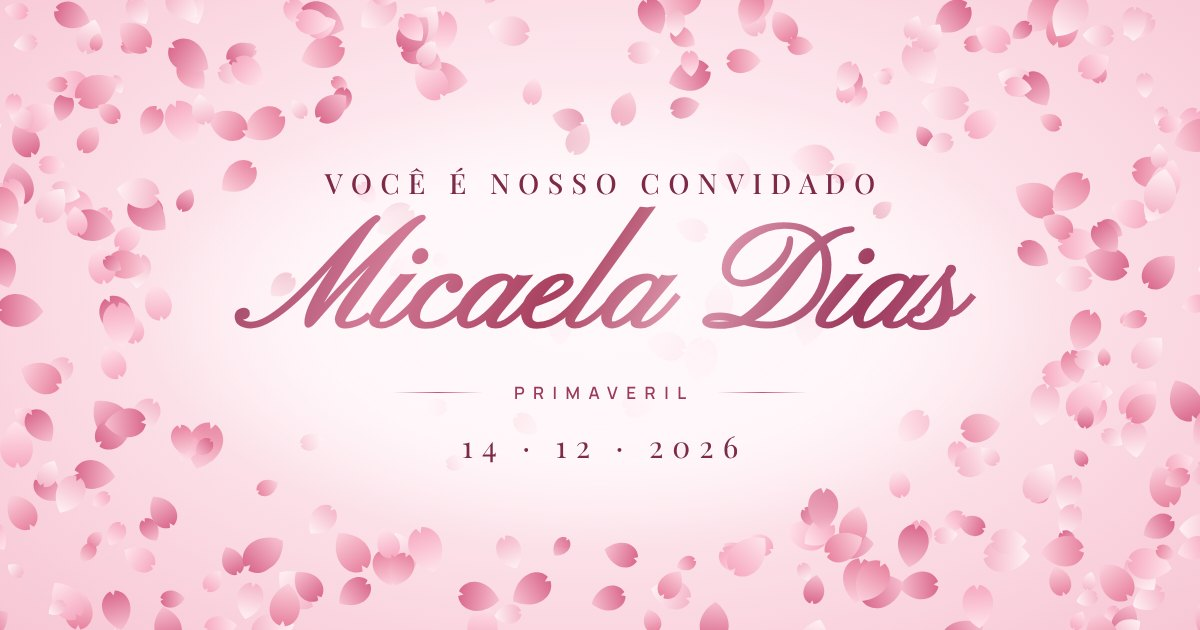
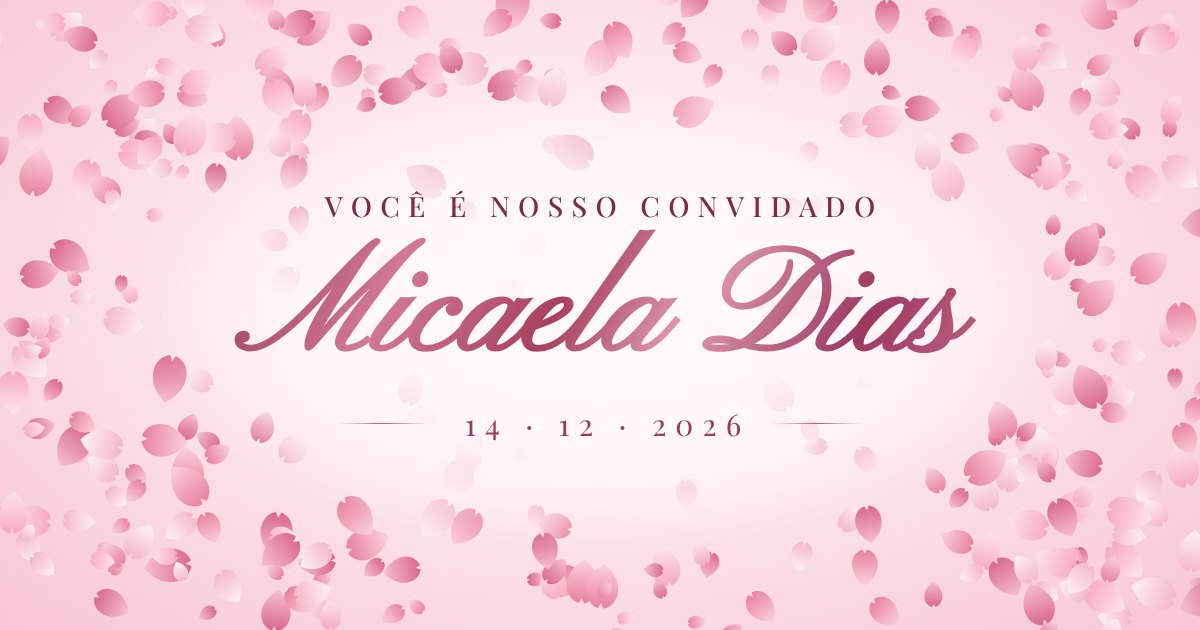
v3 rsvp

diff --git a/index.html b/index.html
@@ -3,14 +3,14 @@
 <head>
   <meta charset="UTF-8" />
   <meta name="viewport" content="width=device-width, initial-scale=1.0, viewport-fit=cover" />
-  <title>Micaela Dias • Primaveril • 14.12.2026</title>
+  <title>Micaela Dias • 14.12.2026</title>
   <meta name="description" content="Você está convidado(a) para a celebração da Micaela Dias — 14/12/2026, Coco Bambu Shopping Ponta Negra." />
   <!-- Prévia do WhatsApp: se o subdomínio for outro, troque o endereço abaixo -->
   <meta property="og:type" content="website" />
-  <meta property="og:url" content="https://micaela.convidaeu.com.br/" />
+  <meta property="og:url" content="https://primaveril.vercel.app/" />
   <meta property="og:title" content="Micaela Dias • Você está convidado(a)" />
-  <meta property="og:description" content="Primaveril • 14.12.2026 • Coco Bambu Ponta Negra — toque para abrir o convite 🌸" />
-  <meta property="og:image" content="https://micaela.convidaeu.com.br/og.jpg" />
+  <meta property="og:description" content="14.12.2026 • Coco Bambu Ponta Negra — toque para abrir o convite 🌸" />
+  <meta property="og:image" content="https://primaveril.vercel.app/og.jpg" />
   <meta property="og:image:width" content="1200" />
   <meta property="og:image:height" content="630" />
   <meta name="twitter:card" content="summary_large_image" />
@@ -225,6 +225,33 @@
       background:linear-gradient(105deg,transparent,rgba(255,255,255,.55),transparent);animation:reflexo 3.8s ease-in-out infinite}
     @keyframes reflexo{0%,55%{left:-60%}85%,100%{left:120%}}
     .btn-linha{color:var(--rosa-800);border:1px solid rgba(156,58,94,.45);background:rgba(255,255,255,.35)}
+    /* formulário de confirmação */
+    .sec.sem-fio::before{display:none}
+    .rsvp-form{max-width:340px;margin:26px auto 0;display:flex;flex-direction:column;gap:18px}
+    .rsvp-form[hidden],.obrigado[hidden],.qtd[hidden]{display:none}
+    .rsvp-form .guest{margin:0 auto}
+    .escolha{display:grid;grid-template-columns:1fr 1fr;gap:10px}
+    .opc{padding:15px 8px;border-radius:16px;border:1px solid rgba(156,58,94,.35);background:rgba(255,255,255,.45);color:var(--rosa-800);
+      font:600 13px var(--sans);cursor:pointer;transition:background .2s,color .2s,box-shadow .2s}
+    .opc[aria-checked="true"]{background:linear-gradient(135deg,#d97a9a,#9c3a5e);color:#fff;border-color:transparent;box-shadow:0 8px 20px rgba(156,58,94,.3)}
+    .qtd p{font-size:13.5px;color:var(--suave)}
+    .stepper{display:flex;align-items:center;justify-content:center;gap:20px;margin-top:10px}
+    .stepper button{width:46px;height:46px;border-radius:50%;border:1px solid rgba(156,58,94,.4);background:rgba(255,255,255,.6);font:400 24px var(--sans);color:var(--rosa-800);cursor:pointer}
+    .stepper output{min-width:44px;font-family:var(--serif);font-variant-numeric:lining-nums;font-size:2.3rem;color:var(--rosa-800)}
+    .recado{width:100%;padding:14px 16px;border-radius:16px;border:1px solid rgba(156,58,94,.3);background:rgba(255,255,255,.55);
+      font:400 16px var(--sans);color:var(--rosa-900);resize:vertical;outline:none}
+    .recado::placeholder{color:rgba(92,42,60,.5);font-size:14px}
+    .recado:focus{border-color:var(--rosa-700)}
+    .erro-msg{font-size:13px;color:#b3263f}
+    .erro-msg:empty{display:none}
+    .rsvp-form .btn{margin:2px auto 0}
+    .btn[disabled]{opacity:.6;pointer-events:none}
+    .obrigado{margin:26px auto 0;max-width:340px;padding:30px 22px;border-radius:24px;background:rgba(255,255,255,.62);border:1px solid #fff;box-shadow:0 14px 34px rgba(156,58,94,.14)}
+    .ok-icone{font-size:2.3rem;line-height:1}
+    .obrigado h4{font-family:var(--serif);font-style:italic;font-weight:400;font-size:1.8rem;color:var(--rosa-800);margin-top:10px}
+    .obrigado p{font-size:14px;color:var(--suave);line-height:1.6;margin-top:8px}
+    .obrigado .btn{margin:20px auto 0}
+    .link-mudar{display:block;margin:16px auto 0;background:none;border:0;color:var(--rosa-700);font:500 13px var(--sans);text-decoration:underline;cursor:pointer}
     .agenda{display:inline-flex;align-items:center;gap:8px;margin-top:22px;color:var(--rosa-800);font-size:13px;text-decoration:none;
       border-bottom:1px solid var(--fio);padding-bottom:3px}
     .agenda svg{width:15px;height:15px}
@@ -289,7 +316,6 @@
       </svg>
 
       <h1 class="nome holo" id="f-nome">Micaela Dias</h1>
-      <div class="sob"><span class="fio"></span><b id="f-tema">Primaveril</b><span class="fio"></span></div>
       <p class="hero-data" id="f-hero-data"></p>
 
       <div class="role" aria-hidden="true"><span class="wide" style="font-size:8px">role</span><i></i></div>
@@ -321,8 +347,6 @@
     <section class="sec traje" id="sec-traje">
       <span class="wide rv">Traje</span>
       <h3 class="titulo holo rv d1" id="f-traje"></h3>
-      <p class="dica-cor rv d2" id="f-cores"></p>
-      <div class="bolinhas rv d2" aria-hidden="true"><i style="background:#fde3ea"></i><i style="background:#f6b3c7"></i><i style="background:#e27f9f"></i><i style="background:#b84d70"></i></div>
     </section>
 
     <section class="sec local">
@@ -359,17 +383,34 @@
       <span class="wide rv">Confirmação</span>
       <h3 class="titulo holo rv d1">Você vem?</h3>
       <p class="sub rv d2" id="f-prazo"></p>
-      <input class="guest rv d2" id="guest" type="text" autocomplete="name" placeholder="Seu nome (e de quem vem com você)" aria-label="Seu nome">
-      <div class="acoes rv d3">
-        <a class="btn btn-rosa" id="btnSim" href="#" target="_blank" rel="noopener">
-          <svg viewBox="0 0 24 24" fill="none" stroke="currentColor" stroke-width="1.8" stroke-linecap="round" stroke-linejoin="round"><path d="M3.5 20.5l1.3-3.9A8.5 8.5 0 1 1 8.2 19.5z"/><path d="M9.2 8.2c.2-.4.5-.5.8-.5h.5l1 2.2-.8.9c.6 1.2 1.5 2.1 2.6 2.7l.9-.8 2.2 1v.5c0 .4-.2.7-.6.9-.6.3-1.4.4-2.2.1-2.3-.9-4-2.7-4.8-5-.2-.7-.1-1.4.4-2z" fill="currentColor" stroke="none"/></svg>
-          Vou comparecer
-        </a>
-        <a class="btn btn-linha" id="btnNao" href="#" target="_blank" rel="noopener">Não poderei ir</a>
+      <form class="rsvp-form rv d2" id="formRsvp" novalidate>
+        <input class="guest" id="guest" type="text" autocomplete="name" maxlength="120" placeholder="Seu nome completo" aria-label="Seu nome completo">
+        <div class="escolha" role="radiogroup" aria-label="Você vai?">
+          <button type="button" class="opc" data-vai="sim" role="radio" aria-checked="false">Vou comparecer 🌸</button>
+          <button type="button" class="opc" data-vai="nao" role="radio" aria-checked="false">Não poderei ir</button>
+        </div>
+        <div class="qtd" id="blocoQtd" hidden>
+          <p>Quantas pessoas no total, contando com você?</p>
+          <div class="stepper">
+            <button type="button" id="menos" aria-label="Menos uma pessoa">−</button>
+            <output id="qtd" aria-live="polite">1</output>
+            <button type="button" id="mais" aria-label="Mais uma pessoa">+</button>
+          </div>
+        </div>
+        <textarea class="recado" id="recado" maxlength="500" rows="3" aria-label="Recado (opcional)"></textarea>
+        <p class="erro-msg" id="erroRsvp" role="alert"></p>
+        <button class="btn btn-rosa" id="btnEnviar" type="submit">Enviar confirmação</button>
+      </form>
+      <div class="obrigado" id="obrigado" hidden>
+        <p class="ok-icone">🌸</p>
+        <h4 id="okTitulo"></h4>
+        <p id="okTexto"></p>
+        <a class="btn btn-linha" id="btnAvisarWhats" target="_blank" rel="noopener" hidden>Avisar também no WhatsApp</a>
+        <button type="button" class="link-mudar" id="btnMudar">Mudar minha resposta</button>
       </div>
     </section>
 
-    <section class="sec" style="padding-top:20px">
+    <section class="sec sem-fio" style="padding-top:20px">
       <a class="agenda rv" id="btnAgenda" href="#" target="_blank" rel="noopener">
         <svg viewBox="0 0 24 24" fill="none" stroke="currentColor" stroke-width="1.6" stroke-linecap="round" stroke-linejoin="round"><rect x="3" y="5" width="18" height="16" rx="3"/><path d="M16 3v4M8 3v4M3 10h18"/></svg>
         <span id="agendaTxt">Salvar na agenda</span>
@@ -393,7 +434,6 @@
     const CONFIG = {
       nome: 'Micaela Dias',
       ocasiao: 'Você é nosso convidado', // texto do topo. ex.: '15 Anos' | 'Meu aniversário'
-      tema: 'Primaveril',
       data: '2026-12-14',      // AAAA-MM-DD
       horario: '20:30',
       fuso: '-04:00',          // Manaus = -04:00 (Brasília seria -03:00)
@@ -402,15 +442,16 @@
       endereco: 'Av. Coronel Teixeira, 5705 — Ponta Negra',
       cidade: 'Manaus - AM',
       traje: 'Esporte fino',
-      cores: 'Tema primaveril em tons de rosa 🌸',
-      lojasTitulo: 'Amazonas Shopping',  // aparece ao lado de cada loja
+      lojasTitulo: 'Shopping Manauara',  // aparece ao lado de cada loja
       lojas: ['Life by Vivara', 'Top Internacional', 'MAC'],
-      pix: '047.045.723-85',   // aparece assim; o botão copia só os números
+      pix: '047.045.722-85',   // aparece assim; o botão copia só os números
       pixBanco: 'Banco do Brasil',
       pixNome: '',             // nome do titular da chave (opcional, ajuda o convidado a conferir)
-      whatsapp: '',            // só números, com 55 + DDD. ex.: '5592999999999' — vazio esconde a confirmação
+      planilha: 'https://script.google.com/macros/s/AKfycby4KKIoz2Nnd1o_4D1EmisYjlvqSgXWFf3HSgEk_uofbfcxLTazQmPHLxhJ_4FpjQb6/exec',            // link do Apps Script (termina em /exec) — as confirmações caem na planilha
+      whatsapp: '559281021617',            // opcional: 55 + DDD + número. Com planilha: vira botão "Avisar também no WhatsApp". Sem planilha: a confirmação vai pelo WhatsApp
+      maxPessoas: 10,          // máximo de pessoas por confirmação
       confirmarAte: '',        // opcional, ex.: '2026-12-05' → "Confirme até 05/12"
-      texto: 'Na estação das flores, quero celebrar mais um capítulo da minha história ao lado de quem faz a minha vida florescer. Será uma alegria ter você comigo nessa noite especial.',
+      texto: 'Quero convidar você para viver essa noite especial comigo.',
       fonteNome: 'pinyon',     // letra do nome: 'pinyon' (caligrafia) | 'greatvibes' (cursiva) | 'playfair' (itálico)
       musica: false,           // true = com música ao abrir | false = sem som nenhum
       volume: 0.5,             // 0 a 1
@@ -441,11 +482,10 @@
     $('f-nome').textContent = CONFIG.nome;
     $('f-assin').textContent = CONFIG.nome;
     $('f-ocasiao').textContent = CONFIG.ocasiao;
-    $('f-tema').textContent = CONFIG.tema;
     $('f-hero-data').textContent = `${dia} · ${mes} · ${ano}`;
     $('f-data-grande').innerHTML = `${dia}<span class="pt">.</span>${mes}`;
     $('f-semana').textContent = `${semana[new Date(`${CONFIG.data}T12:00:00${CONFIG.fuso}`).getUTCDay()]} · ${ano}`;
-    $('f-assin2').textContent = `${CONFIG.tema} · ${dia}.${mes}.${ano}`;
+    $('f-assin2').textContent = `${dia}.${mes}.${ano}`;
     if (CONFIG.texto) $('f-texto').textContent = CONFIG.texto; else $('f-texto').closest('section').remove();
 
     if (CONFIG.horario) {
@@ -454,7 +494,7 @@
       if (CONFIG.fuso !== '-04:00') $('bloco-hora').querySelector('span').innerHTML = 'início da<br>festa';
     } else $('bloco-hora').remove();
 
-    if (CONFIG.traje) { $('f-traje').textContent = CONFIG.traje; $('f-cores').textContent = CONFIG.cores; if (!CONFIG.cores) $('f-cores').remove(); }
+    if (CONFIG.traje) $('f-traje').textContent = CONFIG.traje;
     else $('sec-traje').remove();
 
     $('f-local').textContent = CONFIG.local;
@@ -494,40 +534,95 @@
     } else $('bloco-pix').remove();
     if (!CONFIG.lojas.length && !CONFIG.pix) $('sec-presentes').remove();
 
-    /* ---------- Confirmação pelo WhatsApp (vai e não vai) ---------- */
-    if (CONFIG.whatsapp) {
+    /* ---------- Confirmação de presença (formulário → planilha do Google) ---------- */
+    if (!CONFIG.planilha && !CONFIG.whatsapp) $('sec-rsvp').remove();
+    else (function () {
+      const CHAVE = 'convite-' + primeiroNome.toLowerCase().normalize('NFD').replace(/[^a-z0-9]/g, '') + '-' + CONFIG.data + '-rsvp';
+      const ler = () => { try { return JSON.parse(localStorage.getItem(CHAVE) || 'null'); } catch (e) { return null; } };
+      const gravar = (d) => { try { localStorage.setItem(CHAVE, JSON.stringify(d)); } catch (e) {} };
+      const salvo = ler();
+      const idConvidado = (salvo && salvo.id) || (Date.now().toString(36) + Math.random().toString(36).slice(2, 8));
+      const guest = $('guest'), erro = $('erroRsvp');
+      let vai = null, qtd = 1;
+
       if (CONFIG.confirmarAte) {
         const [, pm, pd] = CONFIG.confirmarAte.split('-');
-        $('f-prazo').textContent = `Por favor, confirme até ${pd}/${pm}. Escreva seu nome e escolha uma opção.`;
-      } else $('f-prazo').textContent = 'Escreva seu nome e escolha uma opção 🌸';
-      const guest = $('guest');
-      const linkWhats = (vai) => {
-        const quem = guest.value.trim();
-        const msg = vai
-          ? `Olá! ${quem ? `Aqui é ${quem}. ` : ''}Confirmo minha presença na celebração da ${primeiroNome} 🌸`
-          : `Olá! ${quem ? `Aqui é ${quem}. ` : ''}Infelizmente não poderei comparecer na celebração da ${primeiroNome}. Desejo uma noite linda! 🌸`;
-        return `https://api.whatsapp.com/send?phone=${CONFIG.whatsapp}&text=${encodeURIComponent(msg)}`;
-      };
-      ['btnSim', 'btnNao'].forEach((id) => {
-        const btn = $(id), vai = id === 'btnSim';
-        const atualizar = () => { btn.href = linkWhats(vai); };
-        atualizar(); guest.addEventListener('input', atualizar);
-        btn.addEventListener('click', (e) => {
-          if (!guest.value.trim()) {
-            e.preventDefault();
-            guest.classList.remove('erro'); void guest.offsetWidth; guest.classList.add('erro');
-            guest.placeholder = 'Escreva seu nome primeiro 😊'; guest.focus();
-          } else if (navigator.vibrate) navigator.vibrate(15);
-        });
+        $('f-prazo').textContent = `Por favor, confirme até ${pd}/${pm}.`;
+      } else $('f-prazo').textContent = 'Preencha abaixo para a família organizar tudo com carinho 🌸';
+      $('recado').placeholder = `Deixe um recado para a ${primeiroNome} (opcional)`;
+
+      function escolher(v) {
+        vai = v;
+        document.querySelectorAll('.opc').forEach((b) => b.setAttribute('aria-checked', String(b.dataset.vai === v)));
+        $('blocoQtd').hidden = v !== 'sim'; erro.textContent = '';
+      }
+      document.querySelectorAll('.opc').forEach((b) => b.addEventListener('click', () => escolher(b.dataset.vai)));
+      const poeQtd = (n) => { qtd = Math.max(1, Math.min(CONFIG.maxPessoas, n)); $('qtd').textContent = qtd; };
+      $('menos').addEventListener('click', () => poeQtd(qtd - 1));
+      $('mais').addEventListener('click', () => poeQtd(qtd + 1));
+
+      function textoWhats(d) {
+        const rec = d.recado ? `\nRecado: ${d.recado}` : '';
+        return d.vai === 'sim'
+          ? `Olá! Aqui é ${d.nome}. Confirmo presença na celebração da ${primeiroNome} 🌸 Seremos ${d.pessoas} pessoa${d.pessoas > 1 ? 's' : ''}.${rec}`
+          : `Olá! Aqui é ${d.nome}. Infelizmente não poderei comparecer na celebração da ${primeiroNome}. Desejo uma noite linda! 🌸${rec}`;
+      }
+      const linkWhats = (d) => `https://api.whatsapp.com/send?phone=${CONFIG.whatsapp}&text=${encodeURIComponent(textoWhats(d))}`;
+
+      function mostrarObrigado(d) {
+        const pn = d.nome.split(' ')[0];
+        $('formRsvp').hidden = true; $('obrigado').hidden = false;
+        $('okTitulo').textContent = d.vai === 'sim' ? `Obrigada, ${pn}!` : `Que pena, ${pn}!`;
+        $('okTexto').textContent = d.vai === 'sim'
+          ? `Sua presença está confirmada${d.pessoas > 1 ? ` para ${d.pessoas} pessoas` : ''}. Te esperamos no dia ${dia}/${mes} 🌸`
+          : 'Sua resposta foi registrada. Obrigada por avisar com carinho!';
+        const bw = $('btnAvisarWhats');
+        if (CONFIG.whatsapp && CONFIG.planilha) { bw.href = linkWhats(d); bw.hidden = false; } else bw.hidden = true;
+      }
+      $('btnMudar').addEventListener('click', () => {
+        const d = ler();
+        $('obrigado').hidden = true; $('formRsvp').hidden = false;
+        if (d) { guest.value = d.nome; escolher(d.vai); poeQtd(d.pessoas || 1); $('recado').value = d.recado || ''; }
+        $('btnEnviar').textContent = 'Atualizar resposta';
       });
-    } else $('sec-rsvp').remove();
+
+      $('formRsvp').addEventListener('submit', async (e) => {
+        e.preventDefault();
+        const nome = guest.value.trim().replace(/\s+/g, ' ');
+        if (nome.length < 2) {
+          erro.textContent = 'Escreva seu nome 😊';
+          guest.classList.remove('erro'); void guest.offsetWidth; guest.classList.add('erro'); guest.focus(); return;
+        }
+        if (!vai) { erro.textContent = 'Escolha se você vai ou não 🌸'; return; }
+        const d = { id: idConvidado, nome, vai, pessoas: vai === 'sim' ? qtd : 0, recado: $('recado').value.trim().slice(0, 500) };
+        const btn = $('btnEnviar'), txt = btn.textContent;
+        if (CONFIG.planilha) {
+          btn.disabled = true; btn.textContent = 'Enviando…'; erro.textContent = '';
+          try {
+            const ctl = new AbortController(), tm = setTimeout(() => ctl.abort(), 15000);
+            await fetch(CONFIG.planilha, { method: 'POST', mode: 'no-cors', signal: ctl.signal,
+              body: new URLSearchParams({ id: d.id, nome: d.nome, vai: d.vai, pessoas: String(d.pessoas), recado: d.recado }) });
+            clearTimeout(tm);
+          } catch (err) {
+            btn.disabled = false; btn.textContent = txt;
+            erro.textContent = 'Não conseguimos enviar agora. Confira sua internet e tente de novo.'; return;
+          }
+          btn.disabled = false; btn.textContent = txt;
+        } else {
+          window.open(linkWhats(d), '_blank', 'noopener');
+        }
+        gravar(d); vibra(15); mostrarObrigado(d);
+      });
+
+      if (salvo && salvo.nome) mostrarObrigado(salvo);
+    })();
 
     /* ---------- Salvar na agenda (iPhone → .ics | Android/PC → Google Agenda) ---------- */
     (function(){
       const fmt = (d) => d.toISOString().replace(/[-:]/g, '').split('.')[0] + 'Z';
       const local = [CONFIG.local, CONFIG.localDetalhe, CONFIG.endereco.replace(' — ', ', '), CONFIG.cidade].filter(Boolean).join(', ');
       const titulo = `Celebração da ${CONFIG.nome}`;
-      const detalhes = `Tema ${CONFIG.tema}${CONFIG.traje ? `\nTraje: ${CONFIG.traje}` : ''}`;
+      const detalhes = CONFIG.traje ? `Traje: ${CONFIG.traje}` : '';
       const fim = new Date(inicio.getTime() + CONFIG.duracaoHoras * 3600000);
       const datas = `${fmt(inicio)}/${fmt(fim)}`;
       const params = new URLSearchParams({ action: 'TEMPLATE', text: `${titulo} 🌸`, dates: datas, location: local, details: detalhes });
@@ -752,7 +847,7 @@
     /* ---------- Capa: envelope ---------- */
     $('c-top').textContent = CONFIG.ocasiao;
     $('c-nome').textContent = CONFIG.nome;
-    $('c-sub').textContent = `${CONFIG.tema} · ${dia}.${mes}.${ano}`;
+    $('c-sub').textContent = `${dia} · ${mes} · ${ano}`;
     $('c-carta').textContent = primeiroNome;
     $('c-carta-data').textContent = `${dia} · ${mes} · ${ano}`;
     $('c-selo').textContent = CONFIG.nome.charAt(0);
